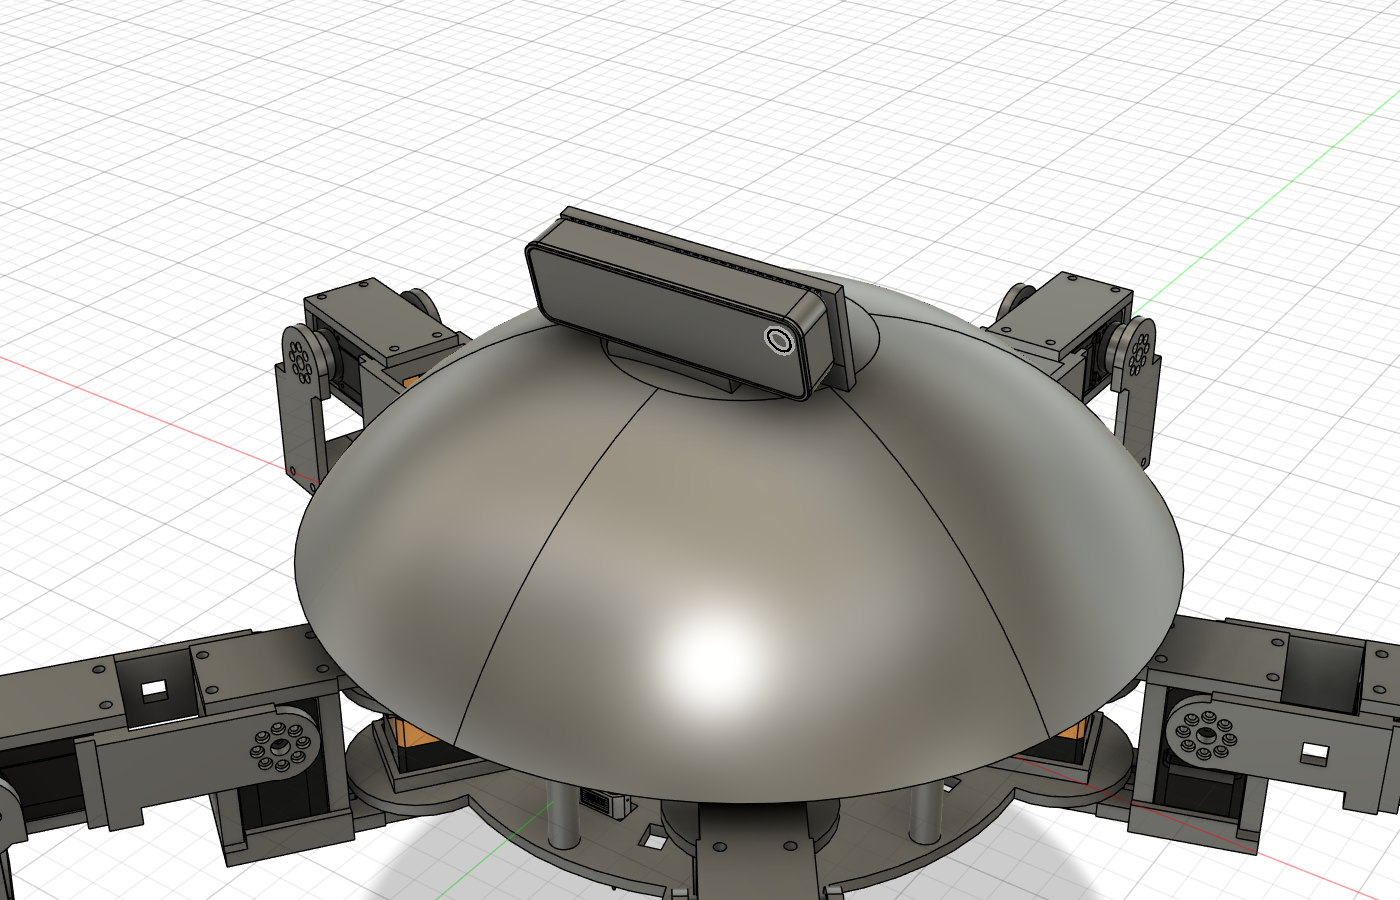
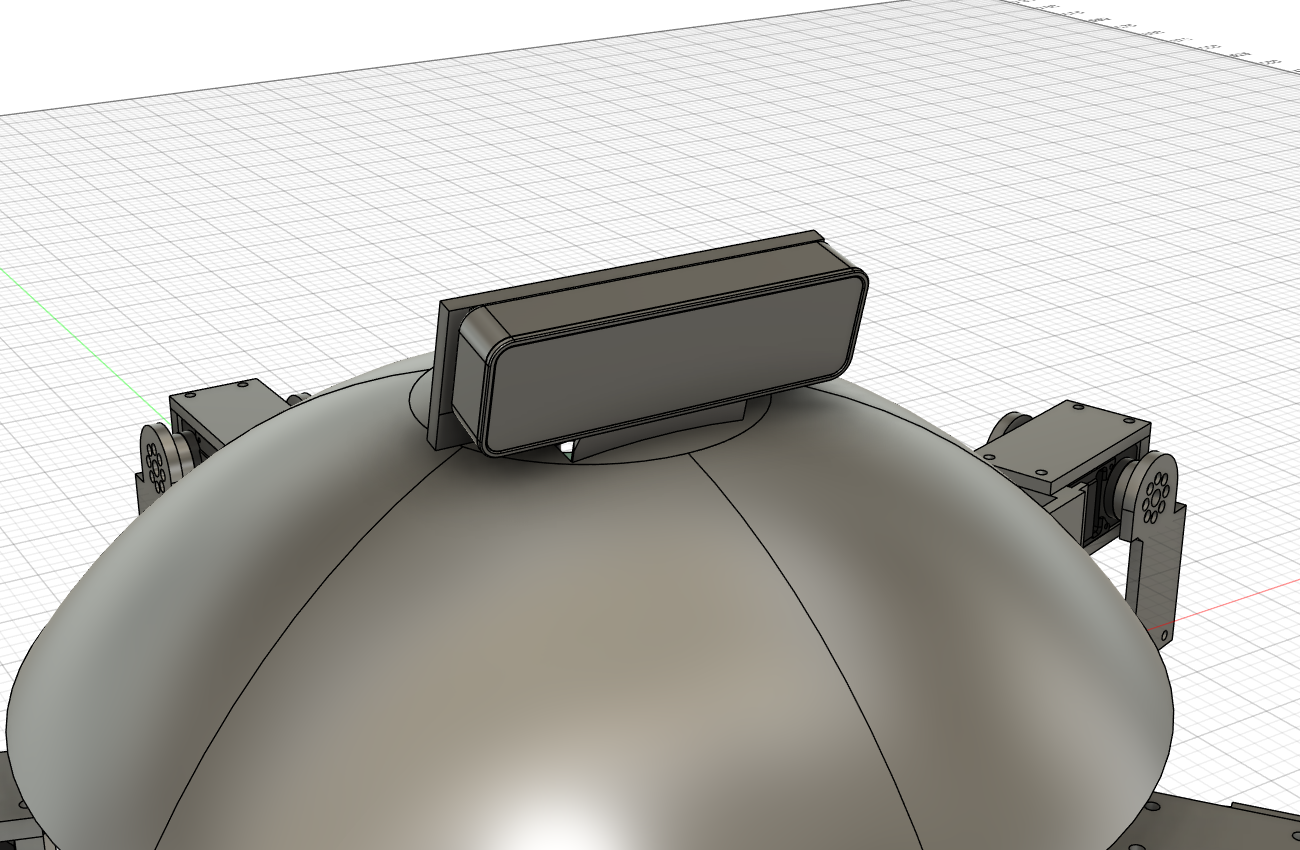
v7 CAD: create the camera occurrence at its pose before importing the STEP
Setting occ.transform after importing the OAK-D Lite STEP left its nested sub-assemblies
(front cover + lens glass, case screws) at different placements than the back cover.
stage_camera now deletes any old camera occurrence, creates it at cam_M() and imports into
it, as the v6 place_part does.

Verified in Fusion: all 13 camera bodies share one rigid placement (bounding boxes match the
intended pose); BRep intersection of every camera body and the USB-C plug envelope with the
dome bodies (the only top-level occurrence near the camera) is zero. Saved 'Pentapod Walker v7'.

diff --git a/fusion/pentapod_camera_v7.py b/fusion/pentapod_camera_v7.py
@@ -99,16 +99,16 @@ def mount_geometry(cap):
 
 
 def stage_camera(ident=None):
+    # Create the occurrence at its final pose, then import into it (as v6 place_part does). Setting
+    # occ.transform after the import moves the STEP's nested sub-assemblies inconsistently.
     r = root()
-    occ = find_occ(r, CAM_NAME)
-    if occ is None:
-        occ = r.occurrences.addNewComponent(adsk.core.Matrix3D.create())
-        occ.component.name = CAM_NAME
-        import_into(occ.component, os.path.join(HW_DIR, CAM_STEP))
-    occ.transform = fmatrix(cam_M())
-    des = adsk.fusion.Design.cast(app.activeProduct)
-    if des.snapshots.hasPendingSnapshot:          # capture the position, or the next recompute resets it
-        des.snapshots.add()
+    old = find_occ(r, CAM_NAME)
+    if old is not None:
+        old.deleteMe()
+    occ = r.occurrences.addNewComponent(fmatrix(cam_M()))
+    occ.component.name = CAM_NAME
+    if not import_into(occ.component, os.path.join(HW_DIR, CAM_STEP)):
+        raise RuntimeError('missing ' + CAM_STEP)
     return occ
 
 
